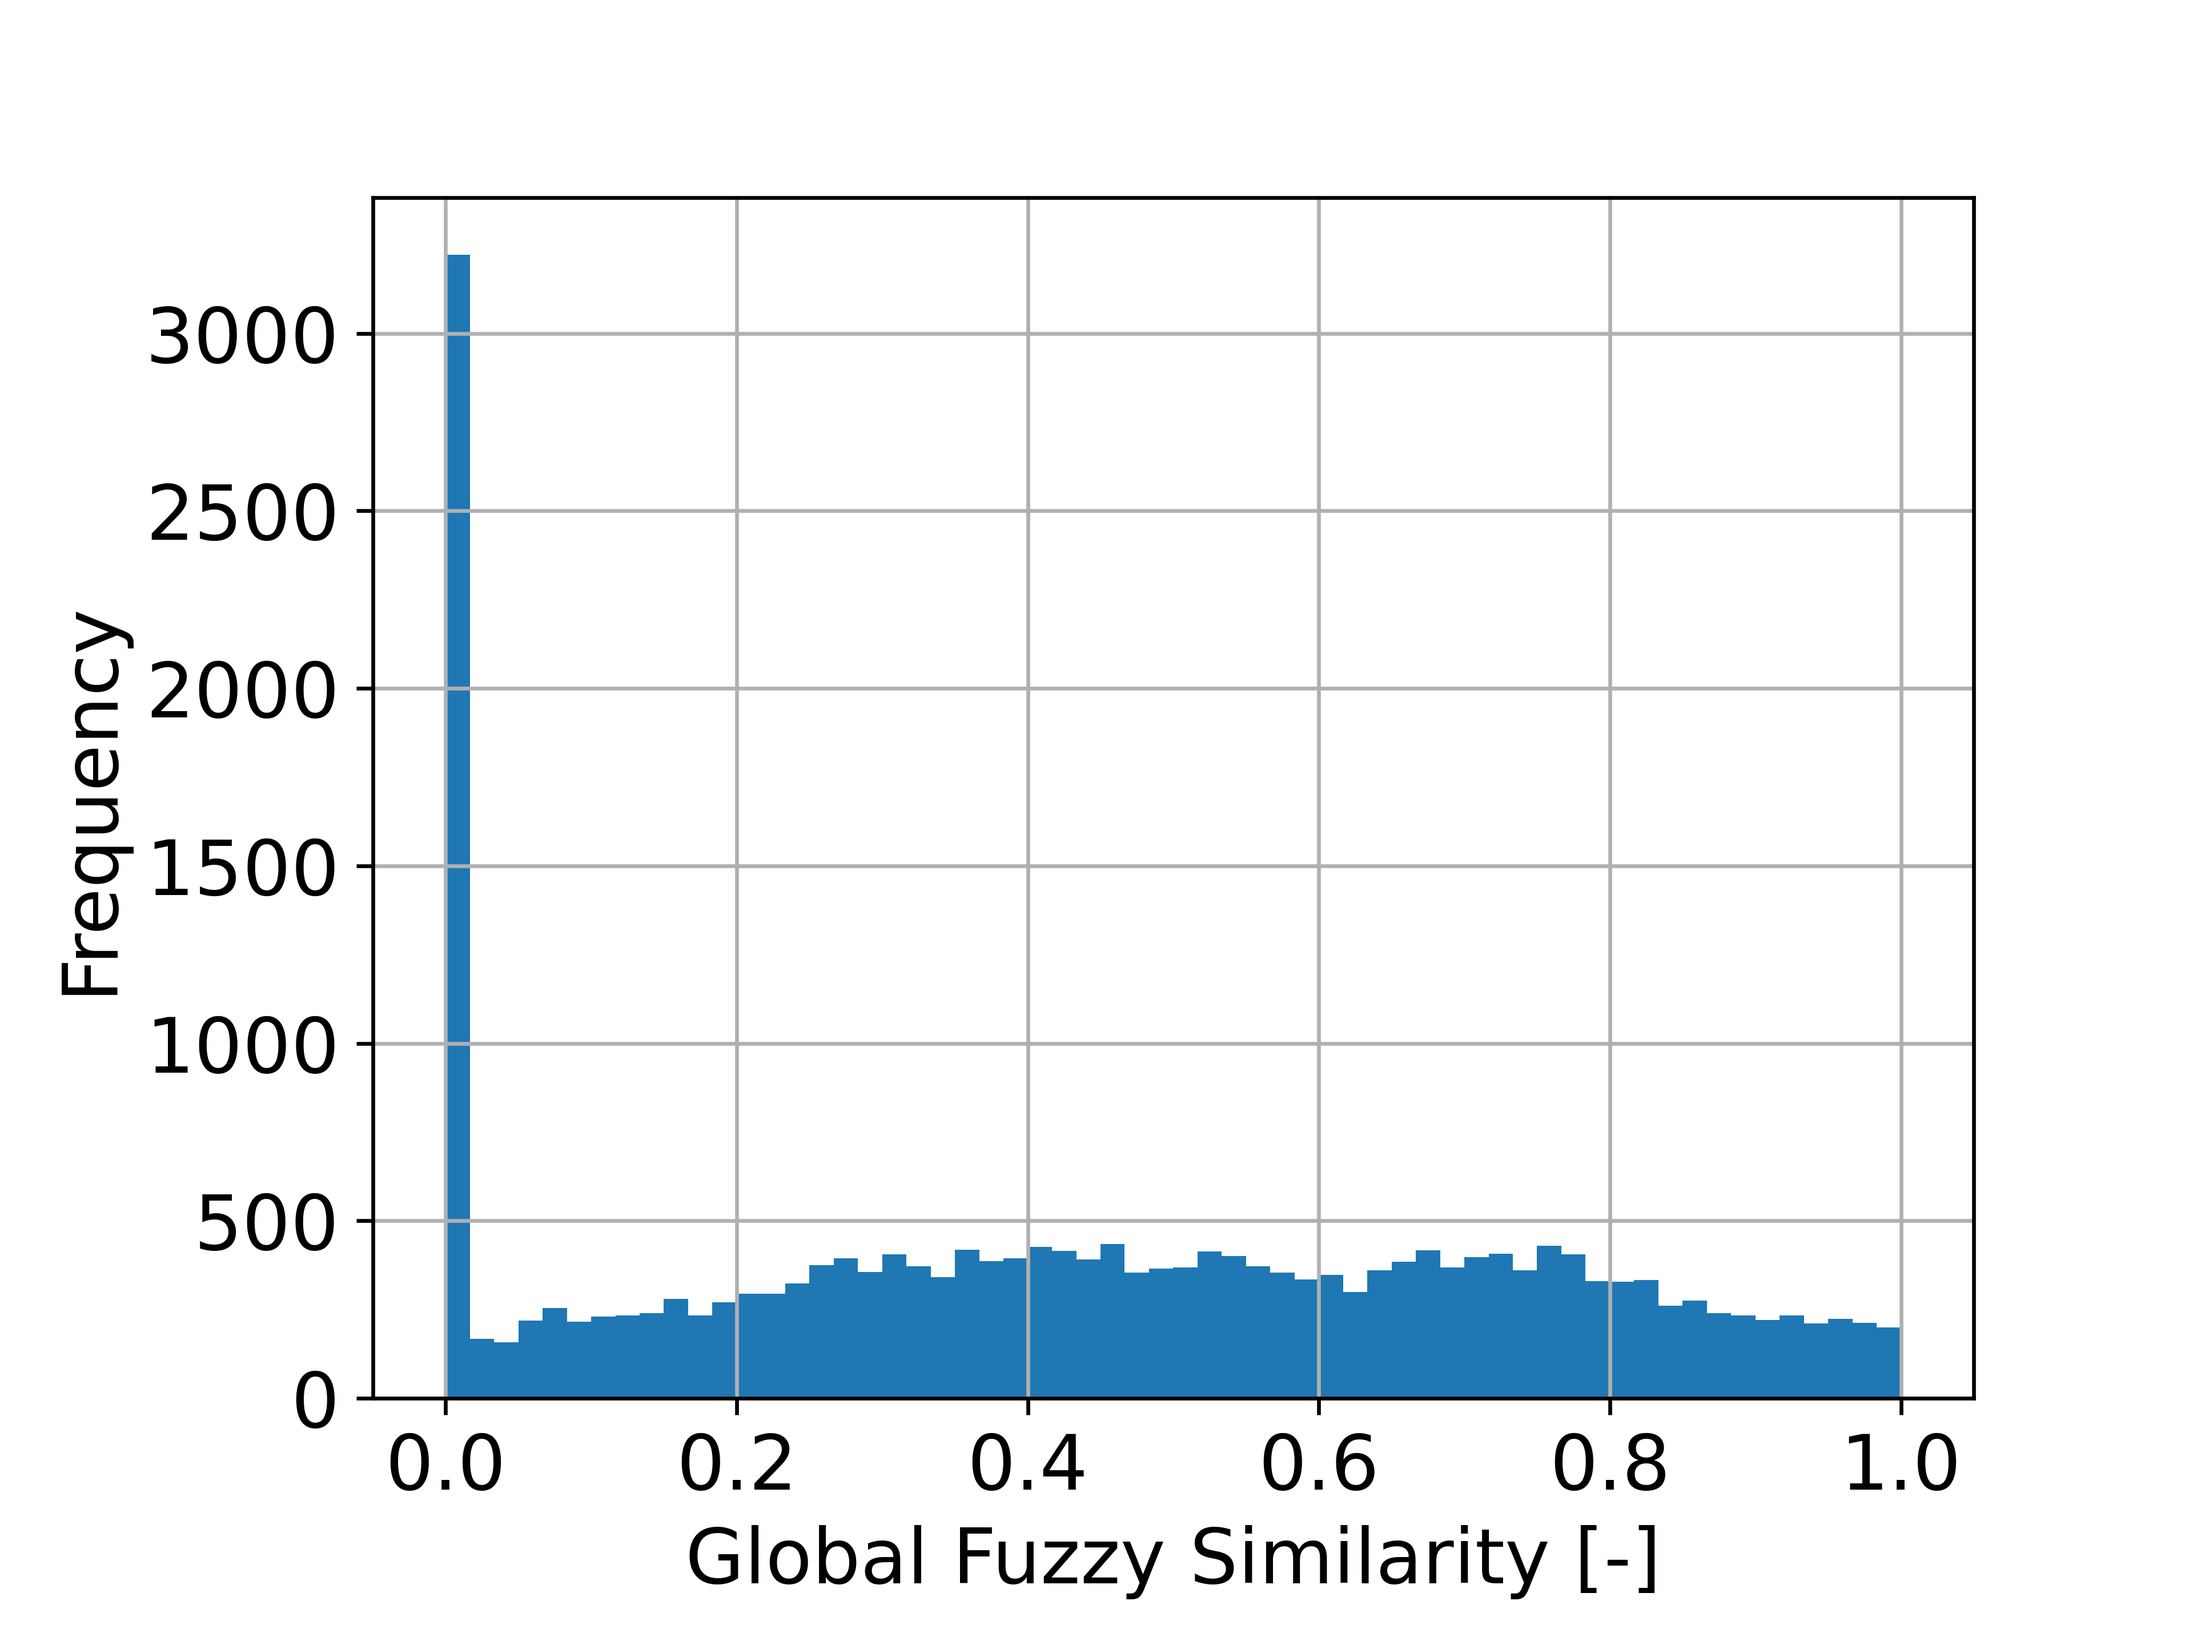
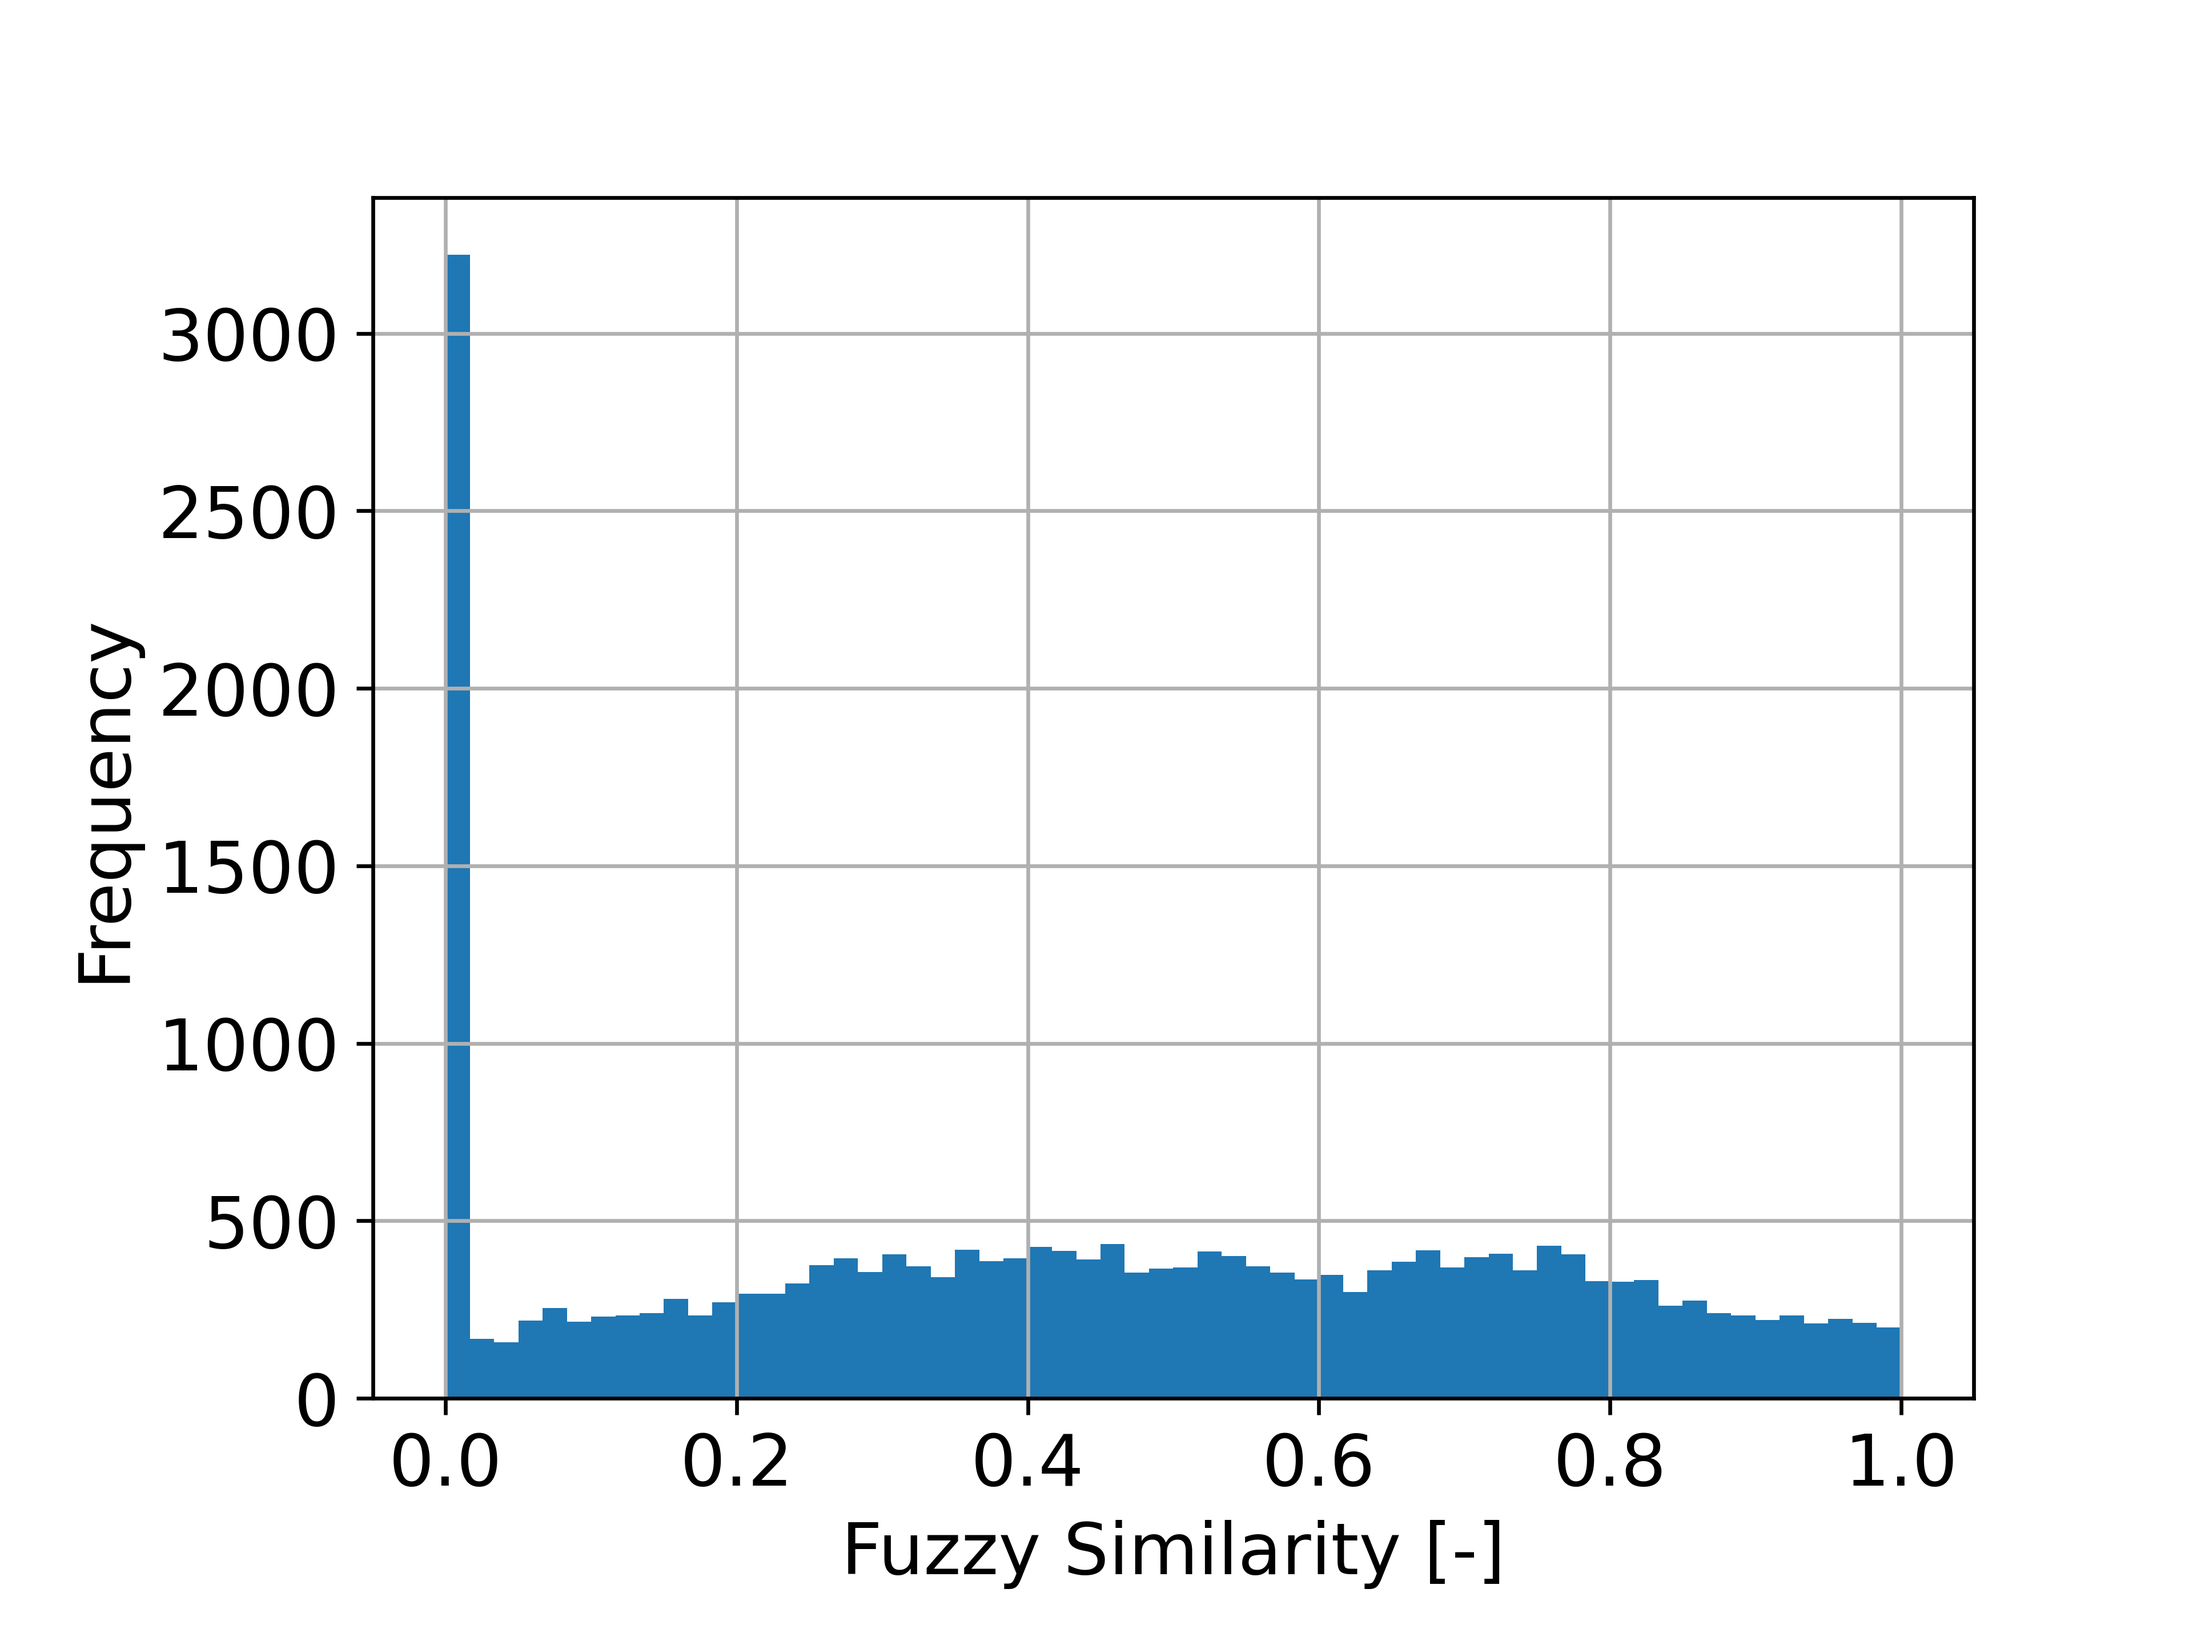
corrected label x

diff --git a/salzach_case/performance_salzach.py b/salzach_case/performance_salzach.py
@@ -15,7 +15,7 @@ list_titles = ['aPC surrogate model (Calibration)',
                'aPC surrogate against manually calibrated model (Calibration)',
                'aPC surrogate against manually calibrated model (Validation)']
 
-legendx = 'Global Fuzzy Similarity [-]'
+legendx = 'Fuzzy Similarity [-]'
 legendy = 'Frequency'
 
 current_dir = Path.cwd()

diff --git a/shallow_reservoirs_case/performance_shallow_reservoirs.py b/shallow_reservoirs_case/performance_shallow_reservoirs.py
@@ -7,7 +7,7 @@ list_files = ['diamond_comp',
 list_titles = ['Diamond-shaped model',
                'Hexagon-shaped model']
 
-legendx = 'Global Fuzzy Similarity [-]'
+legendx = 'Fuzzy Similarity [-]'
 legendy = 'Frequency'
 
 current_dir = Path.cwd()
